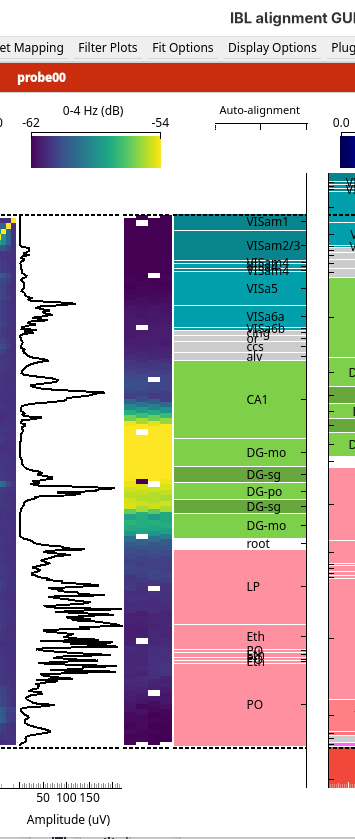
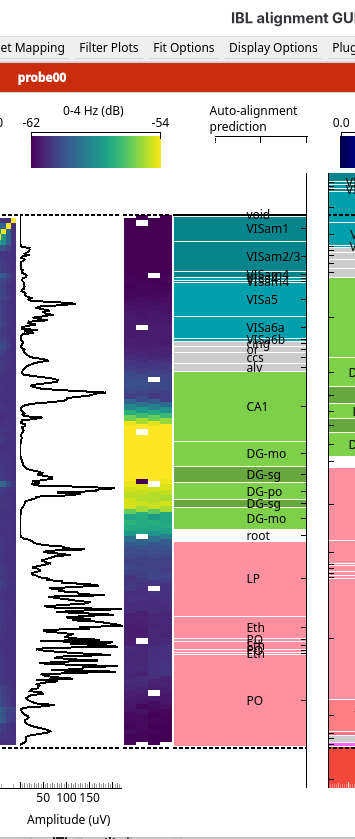
update model titles and make probe transformer default model to load in in tutorial

diff --git a/tests/plugins/test_channel_prediction.py b/tests/plugins/test_channel_prediction.py
@@ -263,10 +263,11 @@ class TestAllPredictions(unittest.TestCase):
         self.assertEqual(self.compute.call_count, len(SHANKS))
         for shank in SHANKS:
             view = self.view(shank)
-            drawn = [c.args[2] for c in view.plot_prediction.call_args_list]
-            self.assertEqual(drawn, [DECODER, DECODER + ' (cumulative)'])
+            titles = [c.args[2] for c in view.plot_prediction.call_args_list]
+            self.assertEqual(titles, ['XGBoost prediction', 'XGBoost cumulative'])
             figs = [c.args[0] for c in view.plot_prediction.call_args_list]
-            self.assertEqual(figs, [view.fig_preds[o] for o in drawn])
+            options = [DECODER, DECODER + ' (cumulative)']
+            self.assertEqual(figs, [view.fig_preds[o] for o in options])
 
     def test_unloaded_model_not_loaded(self):
         """The options of a model that is not loaded say so, and it is not loaded"""
@@ -278,8 +279,8 @@ class TestAllPredictions(unittest.TestCase):
             self.assertEqual(
                 cleared,
                 {
-                    self.TRANSFORMER: cp.NOT_LOADED_MESSAGE,
-                    self.TRANSFORMER + ' (cumulative)': cp.NOT_LOADED_MESSAGE,
+                    'ProbeTransformer prediction': cp.NOT_LOADED_MESSAGE,
+                    'ProbeTransformer cumulative': cp.NOT_LOADED_MESSAGE,
                 },
             )
 
@@ -592,6 +593,25 @@ class TestLazyImports(unittest.TestCase):
             [sys.executable, '-c', code], capture_output=True, text=True, check=True
         )
         self.assertEqual(run.stdout.strip(), '[]')
+
+
+class TestPanelTitles(unittest.TestCase):
+    """The short titles above the prediction panels."""
+
+    def test_titles(self):
+        """Each option shows a short title above its panel; an unknown one shows its name"""
+        self.assertEqual(
+            {option: cp.panel_title(option) for option in cp.MODEL_FOR_OPTION},
+            {
+                'XGBoost region prediction': 'XGBoost prediction',
+                'XGBoost region prediction (cumulative)': 'XGBoost cumulative',
+                'ProbeTransformer region prediction': 'ProbeTransformer prediction',
+                'ProbeTransformer region prediction (cumulative)': 'ProbeTransformer cumulative',
+                'Auto-alignment': 'Auto-alignment prediction',
+                'Auto-alignment (confidence)': 'Auto-alignment confidence',
+            },
+        )
+        self.assertEqual(cp.panel_title('Unknown'), 'Unknown')
 
 
 class TestDefaultSource(unittest.TestCase):

diff --git a/ibl_alignment_gui/plugins/channel_prediction.py b/ibl_alignment_gui/plugins/channel_prediction.py
@@ -46,6 +46,12 @@ MODELS = (*DECODER_SPECS.values(), spatial.ENCODER_SPEC)
 MODEL_FOR_OPTION = {option: spec for spec in MODELS for option in spec.options}
 
 
+def panel_title(option: str) -> str:
+    """Return the title shown above a prediction panel, e.g. 'XGBoost prediction'."""
+    spec = MODEL_FOR_OPTION.get(option)
+    return option if spec is None else spec.panel_title(option)
+
+
 def has_torch() -> bool:
     """Return whether torch is installed, without importing it."""
     return importlib.util.find_spec('torch') is not None
@@ -535,9 +541,9 @@ def _draw(items: 'ShankController', option: str, fig=None) -> None:
     fig = items.view.fig_pred if fig is None else fig
     pred = _cache(items).get(option)
     if pred is None:  # e.g. the prediction failed on this shank
-        items.view.clear_prediction(fig, option)
+        items.view.clear_prediction(fig, panel_title(option))
     else:
-        items.view.plot_prediction(fig, pred, option)
+        items.view.plot_prediction(fig, pred, panel_title(option))
 
 
 def _draw_all(shanks: list['ShankController'], option: str) -> None:
@@ -554,6 +560,6 @@ def _draw_all_predictions(
         for option, fig in items.view.fig_preds.items():
             spec = MODEL_FOR_OPTION.get(option)
             if spec is None or not is_model_loaded(controller, spec.key):
-                items.view.clear_prediction(fig, option, NOT_LOADED_MESSAGE)
+                items.view.clear_prediction(fig, panel_title(option), NOT_LOADED_MESSAGE)
             else:
                 _draw(items, option, fig)

diff --git a/ibl_alignment_gui/plugins/ephys_atlas/inference.py b/ibl_alignment_gui/plugins/ephys_atlas/inference.py
@@ -57,11 +57,14 @@ class Decoder(NamedTuple):
         identifies a local release directory as this decoder.
     needs_torch : bool
         Whether it needs torch (only offered when torch is installed).
+    short_name : str
+        Its name in the titles above the prediction panels, e.g. 'XGBoost prediction'.
     """
 
     repo: str
     model_class: str
     needs_torch: bool
+    short_name: str
 
 
 # Released channel-level region decoders on the Hugging Face Hub, by prediction option name (also
@@ -72,11 +75,13 @@ DECODERS = {
         repo='int-brain-lab/ea-decoder-channel-xgboost',
         model_class='xgboost.sklearn.XGBClassifier',
         needs_torch=False,
+        short_name='XGBoost',
     ),
     'ProbeTransformer region prediction': Decoder(
         repo='int-brain-lab/ea-decoder-channel-transformer',
         model_class='ProbeTransformer',
         needs_torch=True,
+        short_name='ProbeTransformer',
     ),
 }
 # Suffix of the prediction option showing a decoder's cumulative class probabilities.
@@ -398,6 +403,10 @@ DECODER_SPECS = {
         compute=functools.partial(decode_shank, name=name),
         needs_torch=decoder.needs_torch,
         model_class=decoder.model_class,
+        panel_titles={
+            name: f'{decoder.short_name} prediction',
+            name + CUMULATIVE_SUFFIX: f'{decoder.short_name} cumulative',
+        },
     )
     for name, decoder in DECODERS.items()
 }

diff --git a/ibl_alignment_gui/plugins/ephys_atlas/_common.py b/ibl_alignment_gui/plugins/ephys_atlas/_common.py
@@ -14,7 +14,7 @@ from __future__ import annotations
 
 import copy
 import logging
-from dataclasses import dataclass
+from dataclasses import dataclass, field
 from pathlib import Path
 from typing import TYPE_CHECKING
 
@@ -88,6 +88,9 @@ class ModelSpec:
     on_computed : Callable or None
         ``on_computed(controller, items, extra)``: run on the main thread after ``compute``,
         e.g. to open a result window; None when the model needs nothing.
+    panel_titles : dict of str to str
+        A shorter title to show above the prediction panel, by option; an option without one
+        shows its name.
     """
 
     key: str
@@ -101,6 +104,11 @@ class ModelSpec:
     needs_torch: bool
     model_class: str
     on_computed: Callable[[AlignmentGUIController, ShankController, object], None] | None = None
+    panel_titles: dict[str, str] = field(default_factory=dict)
+
+    def panel_title(self, option: str) -> str:
+        """Return the title shown above the prediction panel for ``option``."""
+        return self.panel_titles.get(option, option)
 
 
 class ModelSourceDialog(QtWidgets.QDialog):

diff --git a/ibl_alignment_gui/app/views/shank_view.py b/ibl_alignment_gui/app/views/shank_view.py
@@ -52,9 +52,8 @@ class ShankView:
                 }
                 """,
     }
-    # Characters per line, and font size, of the title above a prediction figure
+    # Characters per line of the title above a prediction figure
     PRED_TITLE_WIDTH = 24
-    PRED_TITLE_SIZE = '8pt'
 
     def __init__(
         self, name: str, index: int, config: str, prediction_keys: list[str] | tuple = ()
@@ -1296,10 +1295,9 @@ class ShankView:
         """
         label = self.pred_labels[fig]
         if title:
-            # The prediction figures are narrow: wrap long titles over more lines, in small text
+            # The prediction figures are narrow: wrap long titles over more lines
             title = '<br>'.join(textwrap.wrap(title, width=self.PRED_TITLE_WIDTH))
-            axis = set_axis(label, 'top', pen='k', ticks=False)
-            axis.setLabel(title, **{'font-size': self.PRED_TITLE_SIZE})
+            set_axis(label, 'top', pen='k', label=title, ticks=False)
         else:
             set_axis(label, 'top', pen='w', label=' ', ticks=False)
 

diff --git a/ibl_alignment_gui/plugins/ephys_atlas/spatial_encoder.py b/ibl_alignment_gui/plugins/ephys_atlas/spatial_encoder.py
@@ -484,4 +484,8 @@ ENCODER_SPEC = ModelSpec(
     needs_torch=True,
     model_class='NeighborInpaintingModel',
     on_computed=_show_result,
+    panel_titles={
+        AUTO_ALIGNMENT_KEY: 'Auto-alignment prediction',
+        AUTO_ALIGNMENT_CONFIDENCE_KEY: 'Auto-alignment confidence',
+    },
 )

diff --git a/docs/source/tutorials/03_channel_prediction.md b/docs/source/tutorials/03_channel_prediction.md
@@ -107,20 +107,20 @@ its electrophysiology features.
 
 1. Choose `original` from the alignment dropdown, so the histology shows the track before any
    alignment.
-2. Open the `Prediction Plots` menu and choose `XGBoost region prediction`.
+2. Open the `Prediction Plots` menu and choose `ProbeTransformer region prediction`.
 3. The model's dialog opens. Keep the default repository and release, and click **OK**. The model
    is downloaded the first time, then the prediction runs.
 
 ```{image} ../_static/tutorials/03_prediction/model_load_dialog.png
-:alt: The dialog for loading the XGBoost region prediction model, with the default Hugging Face repository and release
+:alt: The dialog for loading the ProbeTransformer region prediction model, with the default Hugging Face repository and release
 :align: center
 ```
 
-A panel appears beside the ephys plots, showing the region the model predicts for each channel
-from the electrophysiology alone. Each predicted region is labelled with its acronym.
+A panel titled `ProbeTransformer prediction` appears beside the ephys plots, showing the region the
+model predicts for each channel from the electrophysiology alone. Each predicted region is labelled with its acronym.
 
 ```{image} ../_static/tutorials/03_prediction/decoder_prediction.png
-:alt: The XGBoost region prediction panel, with the thalamus, hippocampus and isocortex predicted along the probe
+:alt: The ProbeTransformer prediction panel, with the thalamus, hippocampus and isocortex predicted along the probe
 :align: center
 ```
 
@@ -128,16 +128,16 @@ from the electrophysiology alone. Each predicted region is labelled with its acr
    coarser level than the histology shows, so select `Cosmos` from the `Set Mapping` menu, or
    press {kbd}`Alt+M` until it is selected, to show the histology with fewer, larger regions.
    Select `Allen` again before you go on.
-5. Choose `XGBoost region prediction (cumulative)`. For each channel, it now shows the
+5. Choose `ProbeTransformer region prediction (cumulative)`. For each channel, it now shows the
    probability that the channel lies in each region, stacked side by side. Where one colour fills
    the width, the model is confident; where several share it, it is unsure.
 
 ```{image} ../_static/tutorials/03_prediction/decoder_cumulative.png
-:alt: The cumulative XGBoost region prediction, with the probabilities of the regions stacked along the probe
+:alt: The ProbeTransformer cumulative panel, with the probabilities of the regions stacked along the probe
 :align: center
 ```
 
-6. Choose `ProbeTransformer region prediction`, and load it in the same way. It is a second model,
+6. Choose `XGBoost region prediction`, and load it in the same way. It is a second model,
    trained on the same features. You will compare the two in step 6.
 
 ## 5. Predict the regions with the alignment model
@@ -167,7 +167,7 @@ The result window shows how the model matched the recording to the track:
    of each channel where the alignment model placed it on the track.
 
 ```{image} ../_static/tutorials/03_prediction/auto_align_prediction.png
-:alt: The Auto-alignment panel, with the atlas regions where the alignment placed each channel
+:alt: The Auto-alignment prediction panel, with the atlas regions where the alignment placed each channel
 :align: center
 ```
 
@@ -175,7 +175,7 @@ The result window shows how the model matched the recording to the track:
    green is high, red is low.
 
 ```{image} ../_static/tutorials/03_prediction/auto_align_confidence.png
-:alt: The Auto-alignment (confidence) panel, coloured from green for high confidence to red for low
+:alt: The Auto-alignment confidence panel, coloured from green for high confidence to red for low
 :align: center
 ```
 

diff --git a/docs/source/reference/channel_prediction.md b/docs/source/reference/channel_prediction.md
@@ -68,7 +68,16 @@ the session's vintage. The vintage a release was trained on is the `vintage` in 
 The prediction entries are offered as soon as a session with features is loaded; without features,
 `Prediction Plots` is greyed out. Selecting one whose model has not been loaded opens the model's
 load dialog. A prediction is shown in a panel beside the ephys plots, placed by depth along the
-probe (see {ref}`ref-interface-ephys`).
+probe (see {ref}`ref-interface-ephys`). The panel is titled with a short name for the entry:
+
+| Entry | Panel title |
+|---|---|
+| `XGBoost region prediction` | XGBoost prediction |
+| `XGBoost region prediction (cumulative)` | XGBoost cumulative |
+| `ProbeTransformer region prediction` | ProbeTransformer prediction |
+| `ProbeTransformer region prediction (cumulative)` | ProbeTransformer cumulative |
+| `Auto-alignment` | Auto-alignment prediction |
+| `Auto-alignment (confidence)` | Auto-alignment confidence |
 
 `All predictions (side by side)` shows only the models already loaded, computed for the shanks
 that need them in one go; the panels of a model that is not loaded say so.

diff --git a/CHANGELOG.md b/CHANGELOG.md
@@ -19,6 +19,8 @@ and this project adheres to [Semantic Versioning](https://semver.org/spec/v2.0.0
   of giving that vintage as a release tag to load.
 - A local features file that records another vintage than the model's is refused, as features
   from Alyx are, instead of being run with a warning.
+- The prediction panels have short titles, such as `XGBoost prediction`, `XGBoost cumulative` and
+  `Auto-alignment confidence`, in the same font as the rest of the GUI.
 
 ## [0.1.0a2] - 2026-10-30
 
